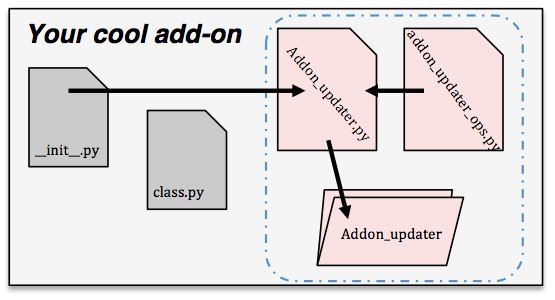
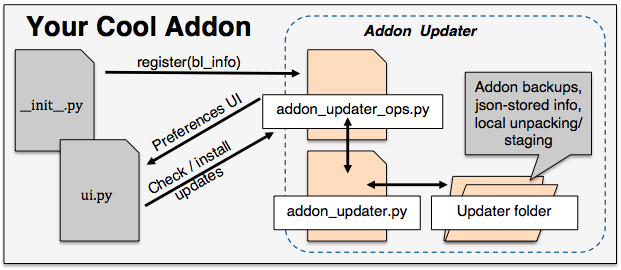
updated documentation and more accurate block diagram

diff --git a/README.md b/README.md
@@ -2,6 +2,9 @@
 
 With this Python module, developers can create auto-checking for updates with their blender addons as well as one-click version installs. Updates are retrieved using GitHub's, GitLab's, or Bitbucket's code api, so the addon must have it's updated code available on GitHub/GitLab/Bitbucket and be making use of either GitHub tags or releases. 
 
+![alt](/images/demo_gif.gif)
+
+
 :warning: **Please [see this page on known issues](https://github.com/CGCookie/blender-addon-updater/issues?q=is%3Aissue+is%3Aopen+label%3A%22Known+Issue%22), including available workarounds**
 
 *Want to add this code to your addon? [See this tutorial here](http://theduckcow.com/2016/addon-updater-tutorial/)*
